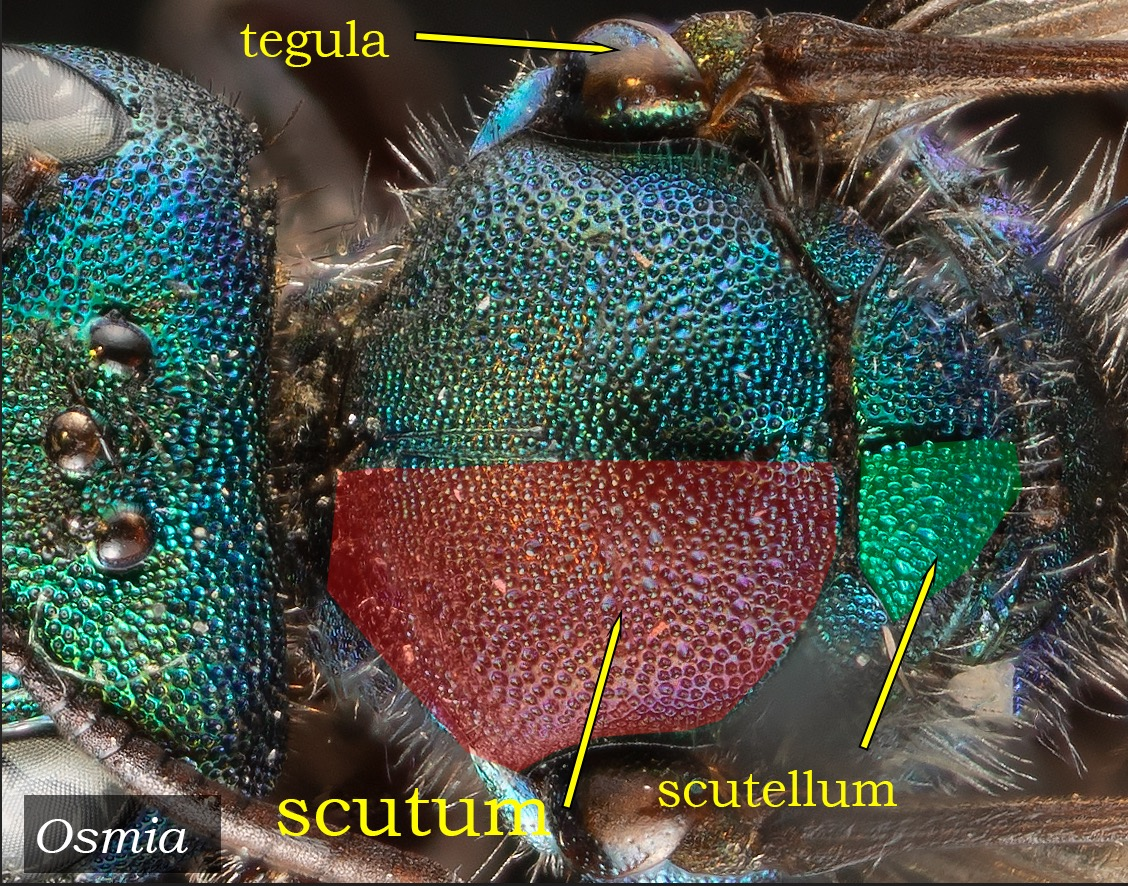
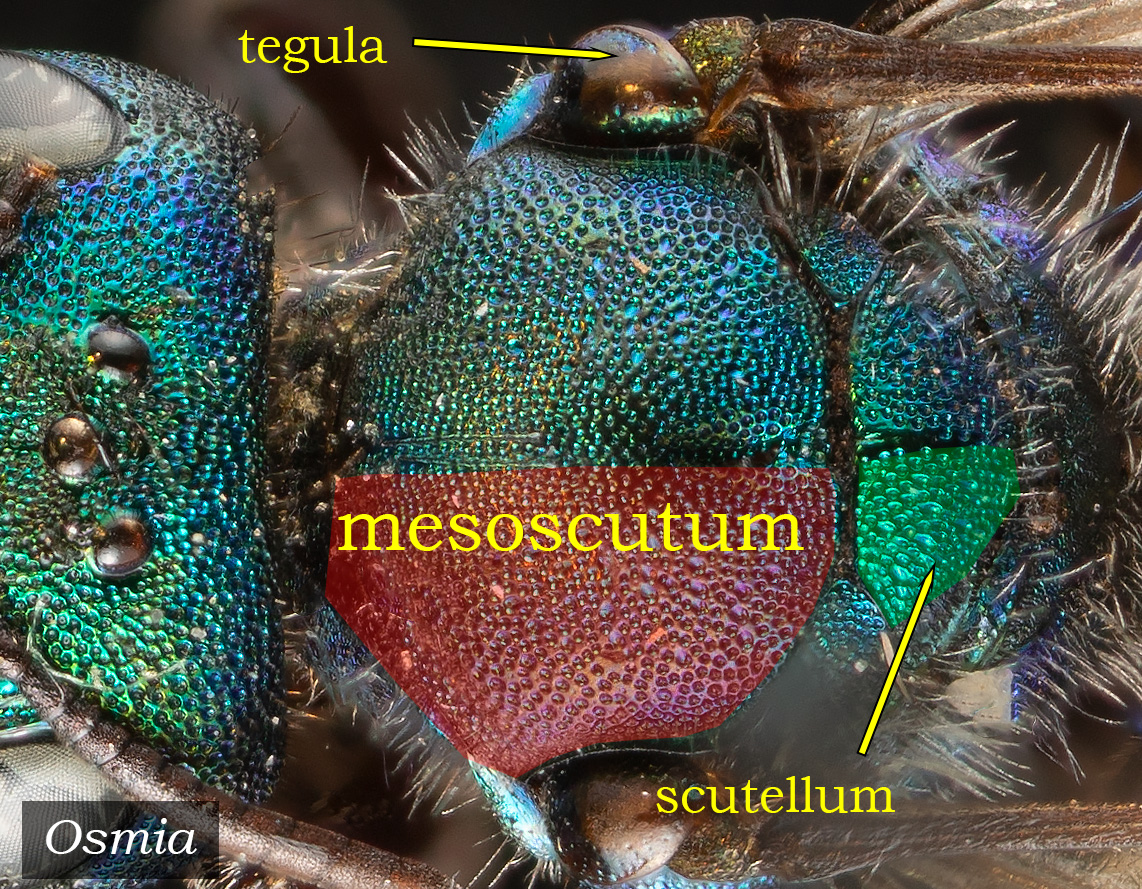
malar

diff --git a/glossary DW.html b/glossary DW.html
@@ -31,7 +31,7 @@
 <section class="full"><img src="header bee  journal copy.jpg" alt="" width="3171" class="full"/><br>
                     <p>Perhaps the ideal way to identify bees is to hand off your specimens to a trained specialist, someone fluent in the complicated vocabulary of taxonomy. However, there are nowhere near enough experts available, so most of us will have to work through keys and puzzle over tricky characters to arrive at an ID. With this resource, we aim to at least de-mystify the terminology. Also: we note that vocabulary and observation are linked: if you know half a dozen terms describing surface sculpture, you will begin to see the details that distinguish them. Then, when you write your own taxonomic resources, you will provide more precise guidance to your own audience. 
                         
-                    <p>This document will be forever in draft form, revised as we find more and better examples. We invite your feedback. What have we missed? Where do we need more (or less) detail? Can you help us fill in content for underrepresented taxa? We recognize that the resource to date reflects regional (North America) and language (English) biases. </p>
+                    <p>This document will be forever in draft form, revised as we find more and better examples. We invite your feedback. What have we missed? Where do we need more (or less) detail? Can you help us fill in content for underrepresented taxa? We recognize that the resource to date reflects regional (North America) and language (English) biases. Note that this glossary covers most of what you will encounter in typical keys. The universe of all technical terms is much larger. For these consider two other resources free on the internet:  <a href="https://static1.squarespace.com/static/5a849d4c8dd041c9c07a8e4c/t/5ad3bc968a922d44a4728936/1523825933048/Michener+2007+The+Bees+of+the+World.pdf">The Bees of the World</a>, by Michener is a comprehensive treatment of morphology, biology, identification of ... bees of the world. The <a href="http://api.hymao.org/public/label/list_all">Hymenoptera Anatomy Ontology Portal</a> has definitions for thousands of terms, though many relate to non-bee taxa.</p>
 <p><strong>Author: </strong>David Cappaert, Quamash EcoResearch. Images by David Cappaert, unless otherwise credited. <br>
                     <strong> Collaborators: </strong>Clare Maffei, USGS/FWS Native Bee Lab; Initial idea: Codey Mathis of Penn State. Detailed edits: Lisa Robinson, Washington Native Bee Society.</p>
 </p>
@@ -2014,12 +2014,12 @@ pharynx (Snodgrass, 1956). Excerpt and image from&nbsp;Michener, Charles D., and
 <table width="100%">
     <tbody>
         <tr>
-            <td width="70%" class="text-cell">
+            <td width="50%" class="text-cell">
                 <!-- First cell with text -->
                 <a name="malar"></a><h2>malar space</h2><p>The area between the bottom of the compound eye and the top of the mandible. Malar space is an important trait for Bombus. From <a href="https://www.mtent.org/projects/Bumble_Bees/morphology_female.html">Bumblebees of Montana</a>: One of the most challenging characters used to key out bumble bees is the length of the malar space (i.e. cheek) compared to its width. The length of the cheek is measured from the lower margin of the compound eye to the attachment of the mandible. The width of the cheek is measured below the compound eye and is the distance from the margin of the gena to the margin of the clypeus.</p>
                 <p>The reference here to "cheek" could be confusing. That term is generally used as a synonym for "<a href="#gena">gena</a>," meaning the entire side of the head. </p>
                 <p>For malar space of Andrena, see <a href="https://leptinotarsa.github.io/glossary_test/Andrena%20Deconstructed%20Oct%2011.html#malar">Andrena Deconstructed Guide</a>.</p></td>
-            <td width="30%" class="bordered-box-cell">
+           <td width="25%" class="bordered-box-cell">
                 <!-- Second cell with image and caption -->
                 <div class="image-container">
                     <img src="Bombus malar space copy.jpg" class="gallery-image" onclick="openOverlay('Bombus malar space copy.jpg')">
@@ -2029,6 +2029,12 @@ pharynx (Snodgrass, 1956). Excerpt and image from&nbsp;Michener, Charles D., and
                     <img src="Andrena,head,mandble no lamella copy.jpg" class="gallery-image" onclick="openOverlay('Andrena,head,mandble no lamella copy.jpg')">
                     
                     <div class="caption">Andrena: malar space 1/6 as long as wide.&nbsp;</div>
+                </div>
+            </td>   <td width="25%" class="bordered-box-cell">
+                <!-- Second cell with image and caption -->
+                <div class="image-container">
+                    <img src="https://www.mdpi.com/insects/insects-11-00669/article_deploy/html/images/insects-11-00669-g001.png" class="gallery-image" onclick="openOverlay('Bombus malar space copy.jpg')">
+                     <div class="caption">Details on measurement landmarks for Bombus, in&nbsp;<a href="https://www.mdpi.com/2075-4450/11/10/669">Validating Morphometrics with DNA Barcoding to Reliably Separate Three Cryptic Species of Bombus</a></div>
                 </div>
             </td>
          
@@ -2169,6 +2175,26 @@ pharynx (Snodgrass, 1956). Excerpt and image from&nbsp;Michener, Charles D., and
         </tr>
     </tbody>
 </table>
+<hr class="heavy-rule">
+<table width="100%">
+    <tbody>
+        <tr>
+            <td width="70%" class="text-cell">
+                <!-- First cell with text -->
+                <hr><a name="mesoscutum"></a><h2>mesoscutum</h2>
+                <p>The largest sclerite dorsally on the <a href="#mesosoma">mesosoma</a>, anterior to the scutellum and posterior to the pronotum.</p>
+<p><a href="#index"><strong>return to top</strong></a></p></td>
+            <td width="30%" class="bordered-box-cell">
+                <!-- Second cell with image and caption ADD to JS-->
+                <div class="image-container">
+                    <img src="scutum dc.jpg" class="gallery-image" onclick="openOverlay('scutum dc.jpg')">
+               
+                </div>
+            </td>
+        </tr>
+    </tbody>
+</table>
+
     <hr class="heavy-rule">
 <table width="100%">
     <tbody>
@@ -3298,12 +3324,13 @@ Medial i=1.0d<br>
             <td width="70%" class="text-cell">
                 <!-- First cell with text -->
                 <hr><a name="scutum"></a><h2>scutum</h2>
-                <p>The largest sclerite dorsally on the <a href="#mesosoma">mesosoma</a>, anterior to the scutellum and posterior to the pronotum. </p>
-                                                <p><a href="#index"><strong>return to top</strong></a></p></td>
+                <p>The largest sclerite dorsally on the <a href="#mesosoma">mesosoma</a>, anterior to the scutellum and posterior to the pronotum. More precisely called the <a href="#mesoscutum">mesoscutum</a>.</p>
+<p><a href="#index"><strong>return to top</strong></a></p></td>
             <td width="30%" class="bordered-box-cell">
                 <!-- Second cell with image and caption ADD to JS-->
                 <div class="image-container">
-                    <img src="scutum dc.jpg" class="gallery-image" onclick="openOverlay('scutum dc.jpg')">
+                    <img src="Ceratina calcarata,female,scutum.jpg" class="gallery-image" onclick="openOverlay('scutum dc.jpg')">
+                                         <div class="caption">Glabrous, punctate scutum (mesoscutum) of Ceratina.</div>
                
                 </div>
             </td>
@@ -3543,7 +3570,8 @@ cf., scabriculous. Another take: Discoverlife will use "granular" for shagreened
                         <td width="20%" class="bordered-box-cell">
                 <!-- Third cell with image and caption -->
                 <div class="image-container">
-                    <img src="https://static.inaturalist.org/photos/114479466/large.jpeg" class="gallery-image" onclick="openOverlay('https://static.inaturalist.org/photos/114479466/large.jpeg')">
+                    <img src="2024/stylops,HF,LUPORE,DC052024.3_.jpg" class="gallery-image" onclick="openOverlay('2024/stylops,HF,LUPORE,DC052024.3_.jpg')">
+                                        <div class="caption">Stylops on Lasioglossum tergite.</a></div>
                     
 
                 </div>
